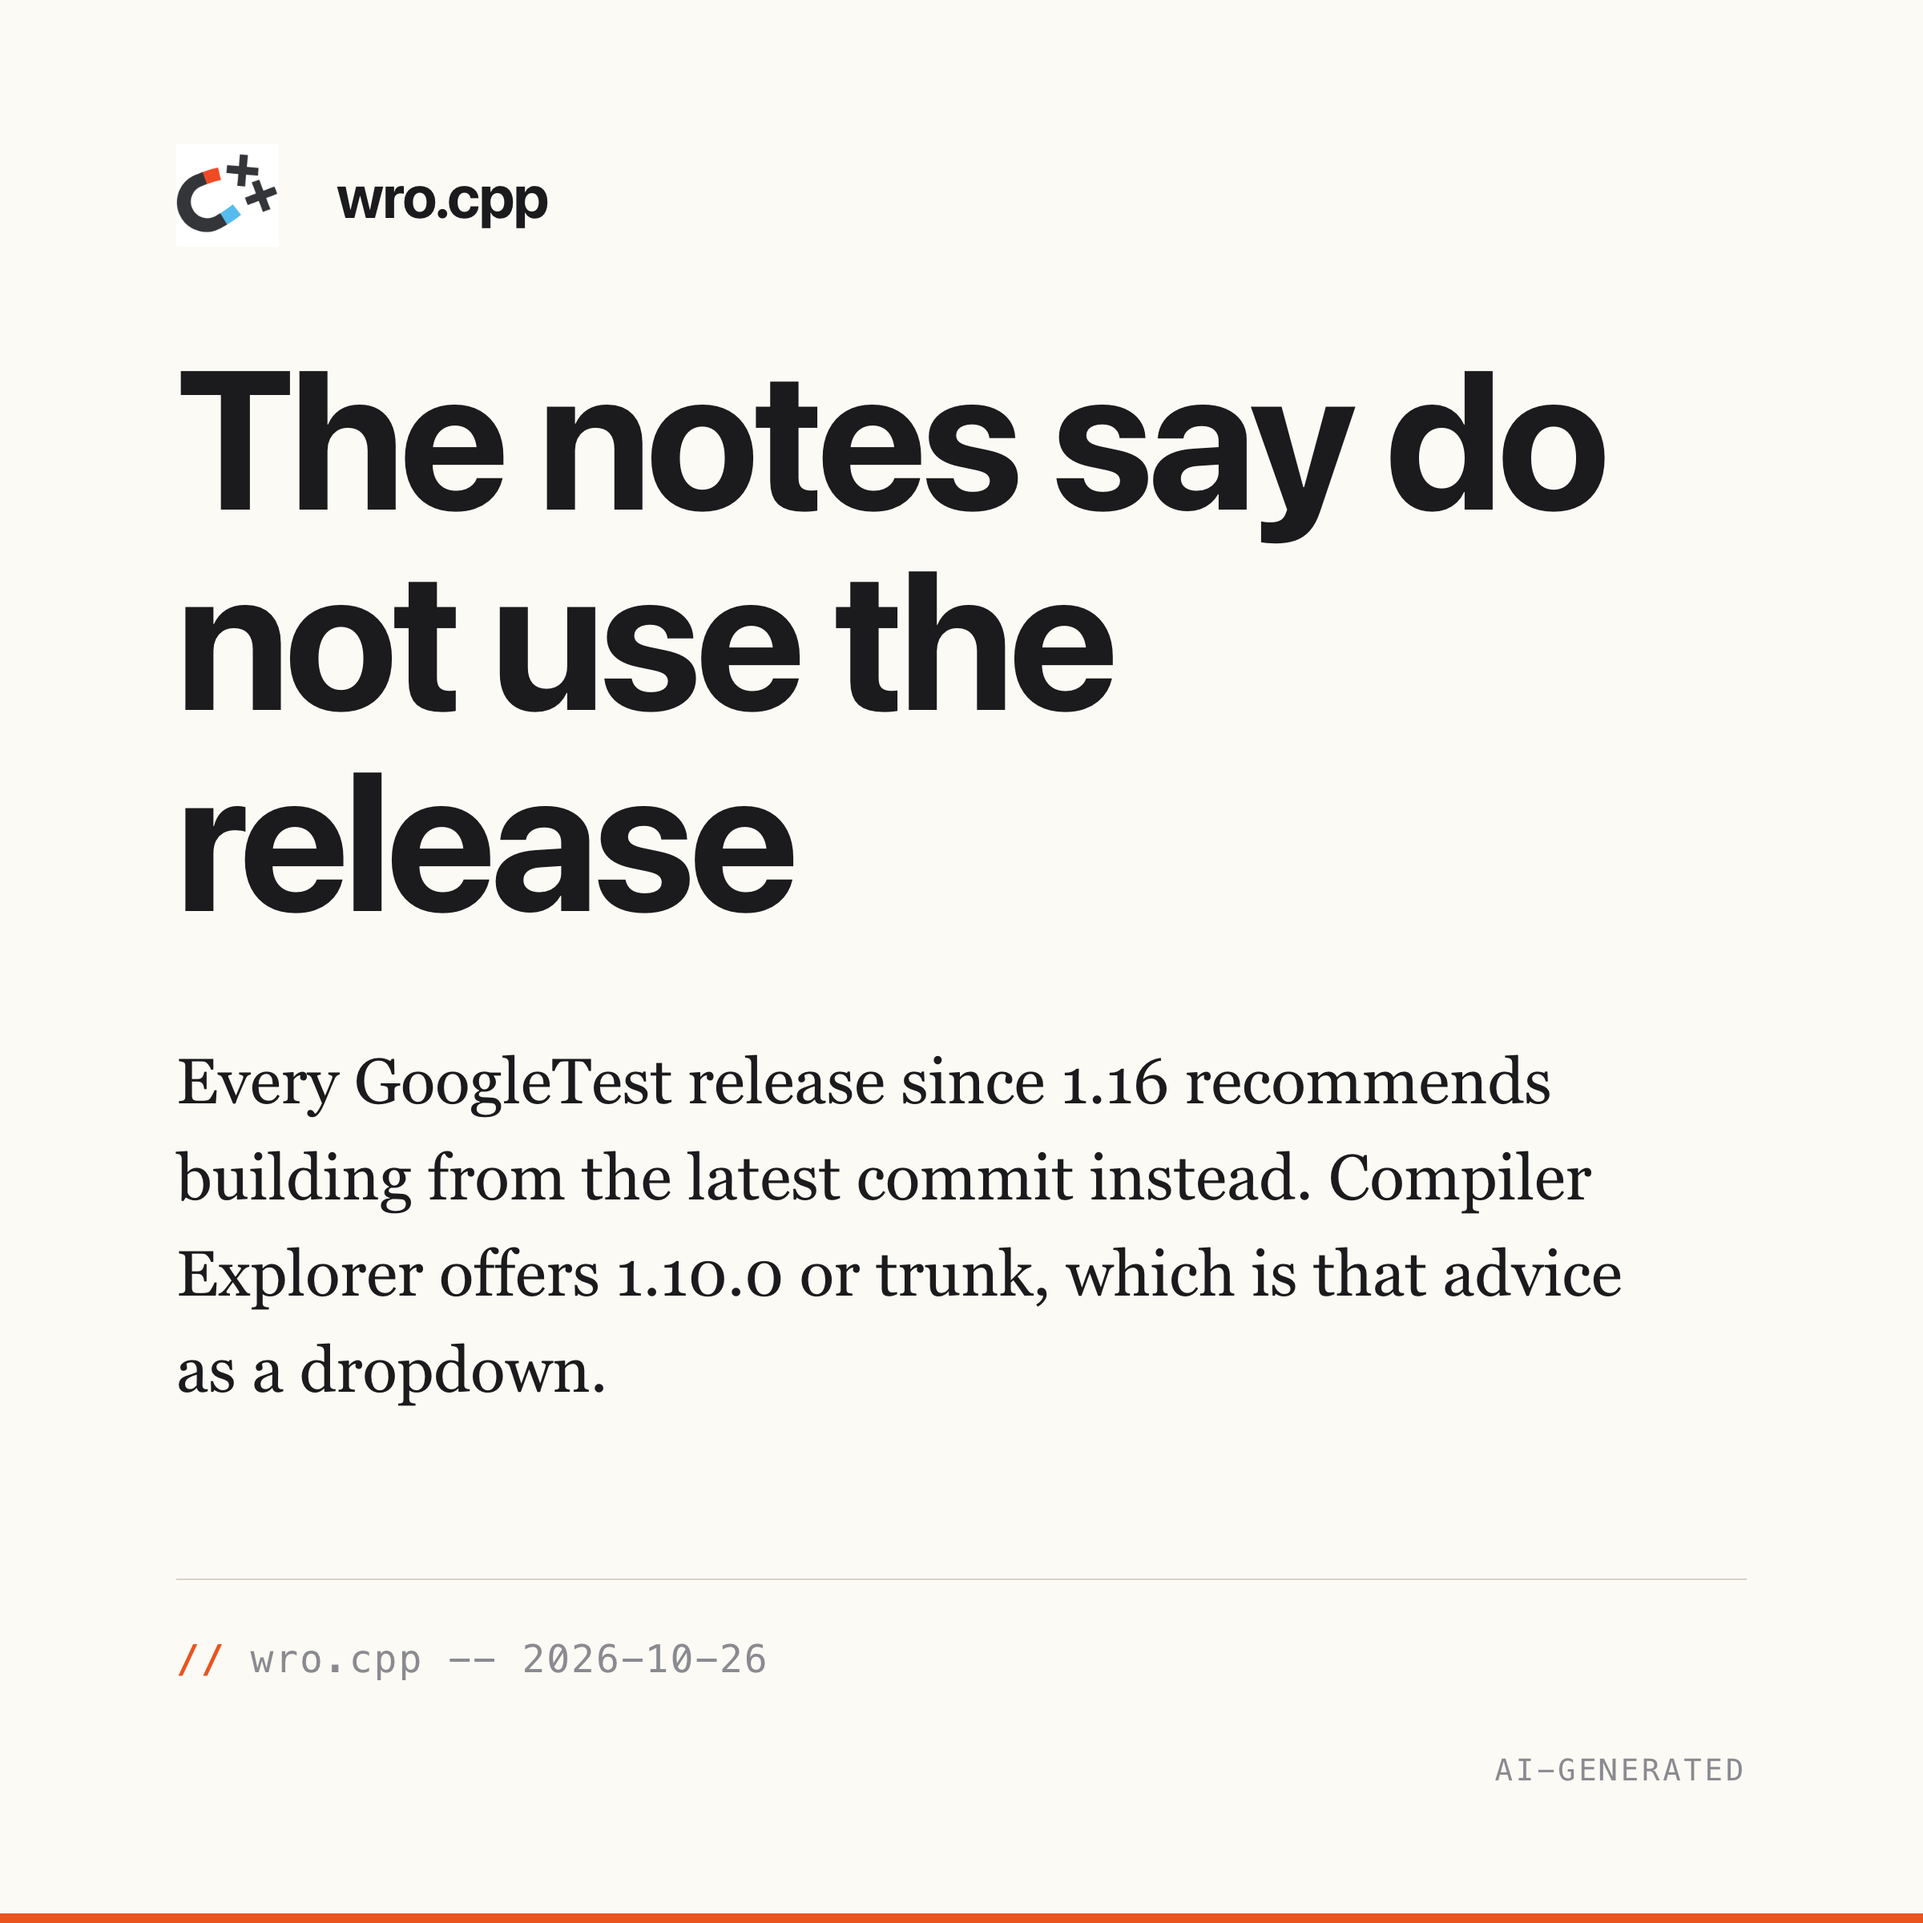
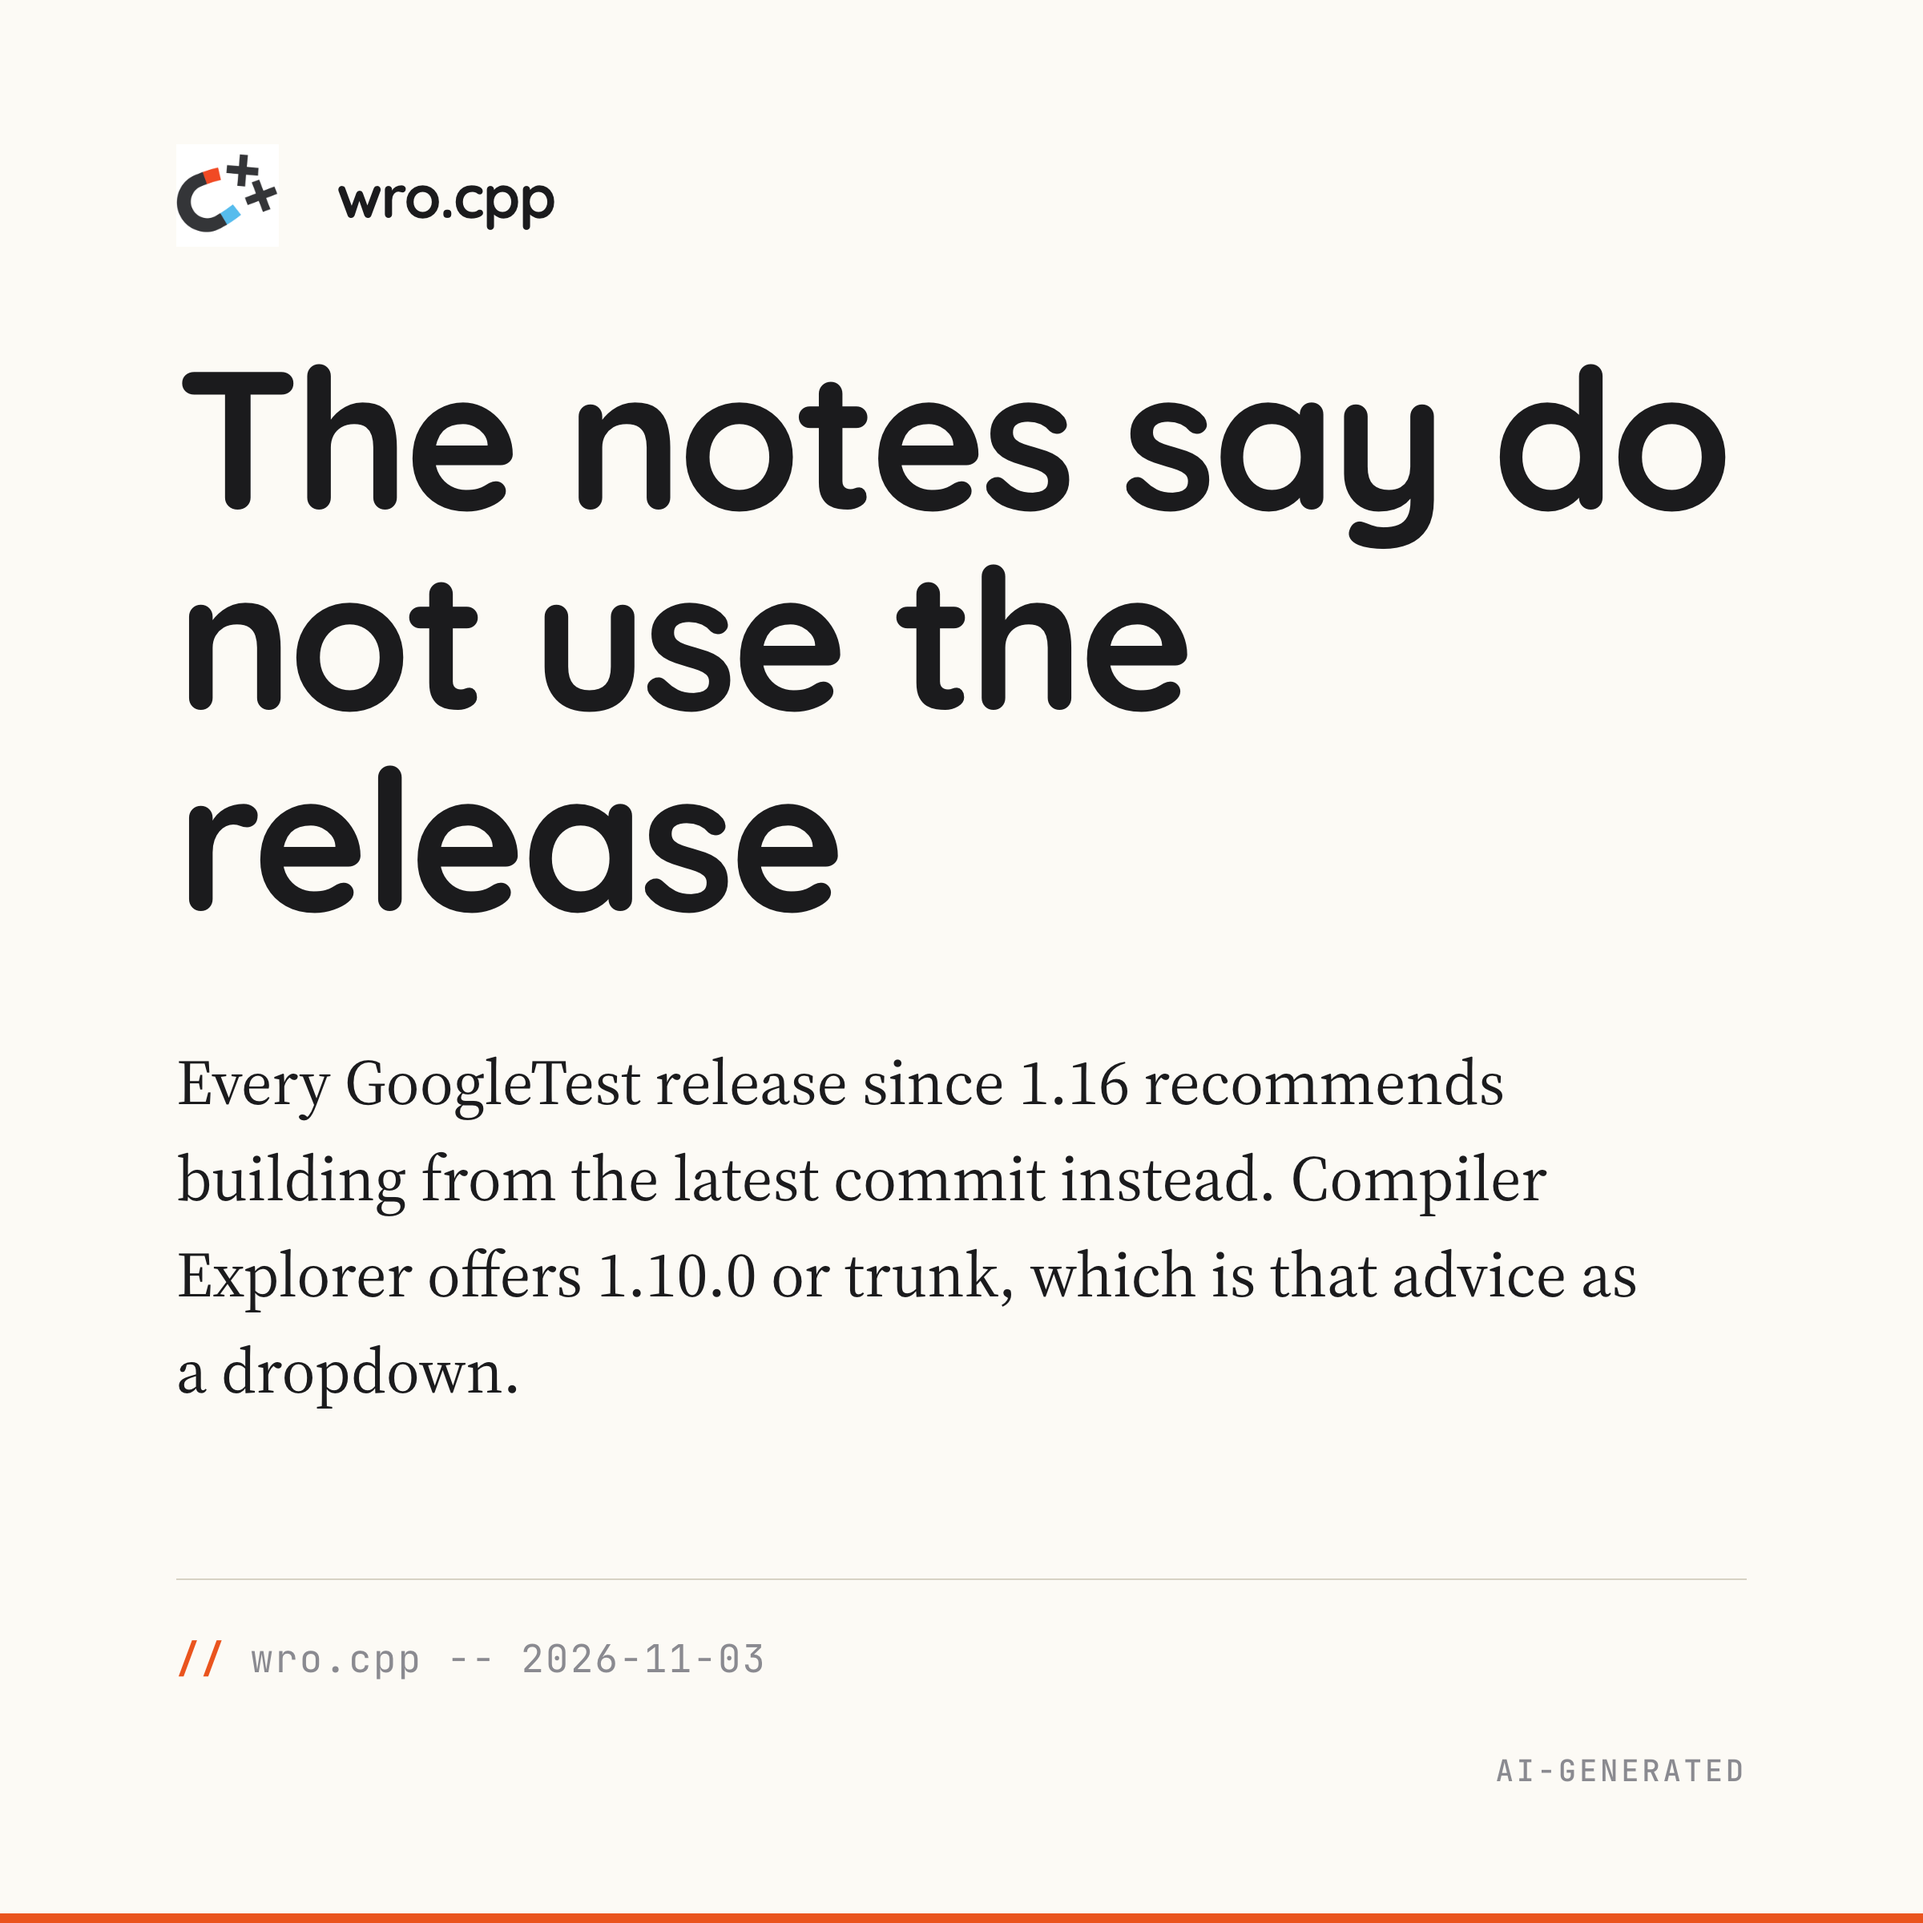
feat(post): move the GoogleTest short to the second slot of 3 November
The spec author post takes the morning slot of 26 October. The short keeps its
cards, re-dated, and becomes a planned second post at 16:00 UTC.

diff --git a/social/facebook/googletest-live-at-head/index.html b/social/facebook/googletest-live-at-head/index.html
@@ -23,6 +23,6 @@
   </defs>
 </svg>
 
-<section class="card card-insight dark"><div class="grid-bg"></div><div class="glow"></div><div class="insight-content"><h1>The notes say do not use the release</h1><p>Every GoogleTest release since 1.16 recommends building from the latest commit instead. Compiler Explorer offers 1.10.0 or trunk, which is that advice as a dropdown.</p><div class="insight-citation">wro.cpp -- 2026-10-26</div></div><div class="logo-watermark top-left"><svg viewBox="0 0 512 512" aria-hidden="true"><use href="#scudo-logo"/></svg><span class="logo-wordmark">ScudoAI</span></div><div class="ai-badge">AI-generated</div></section>
+<section class="card card-insight dark"><div class="grid-bg"></div><div class="glow"></div><div class="insight-content"><h1>The notes say do not use the release</h1><p>Every GoogleTest release since 1.16 recommends building from the latest commit instead. Compiler Explorer offers 1.10.0 or trunk, which is that advice as a dropdown.</p><div class="insight-citation">wro.cpp -- 2026-11-03</div></div><div class="logo-watermark top-left"><svg viewBox="0 0 512 512" aria-hidden="true"><use href="#scudo-logo"/></svg><span class="logo-wordmark">ScudoAI</span></div><div class="ai-badge">AI-generated</div></section>
 </body>
 </html>

diff --git a/social/linkedin/googletest-live-at-head/index.html b/social/linkedin/googletest-live-at-head/index.html
@@ -23,6 +23,6 @@
   </defs>
 </svg>
 
-<section class="card card-insight dark"><div class="grid-bg"></div><div class="glow"></div><div class="insight-content"><h1>The notes say do not use the release</h1><p>Every GoogleTest release since 1.16 recommends building from the latest commit instead. Compiler Explorer offers 1.10.0 or trunk, which is that advice as a dropdown.</p><div class="insight-citation">wro.cpp -- 2026-10-26</div></div><div class="logo-watermark top-left"><svg viewBox="0 0 512 512" aria-hidden="true"><use href="#scudo-logo"/></svg><span class="logo-wordmark">ScudoAI</span></div><div class="ai-badge">AI-generated</div></section>
+<section class="card card-insight dark"><div class="grid-bg"></div><div class="glow"></div><div class="insight-content"><h1>The notes say do not use the release</h1><p>Every GoogleTest release since 1.16 recommends building from the latest commit instead. Compiler Explorer offers 1.10.0 or trunk, which is that advice as a dropdown.</p><div class="insight-citation">wro.cpp -- 2026-11-03</div></div><div class="logo-watermark top-left"><svg viewBox="0 0 512 512" aria-hidden="true"><use href="#scudo-logo"/></svg><span class="logo-wordmark">ScudoAI</span></div><div class="ai-badge">AI-generated</div></section>
 </body>
 </html>

diff --git a/scripts/schedule_doubles.py b/scripts/schedule_doubles.py
@@ -160,6 +160,10 @@ INTENTIONAL_DOUBLES: dict[str, dict] = {
     # spec post took the second slot, to the first free second slot.
     "2026-11-01": {"slug": "rust-swift-cpp-interop-toolchains", "hour": 16,
                    "why": "Rust and Swift interop news alongside the evergreen post, moved from 22 October"},
+    # A GoogleTest news short. It moved from the first slot of 26 October, where the
+    # post on the spec author's two corrections took the morning, to the first free second slot.
+    "2026-11-03": {"slug": "googletest-live-at-head", "hour": 16,
+                   "why": "GoogleTest release news alongside the first tidy-agent episode, moved from 26 October"},
 }
 
 

diff --git a/social/linkedin/googletest-live-at-head/caption.md b/social/linkedin/googletest-live-at-head/caption.md
@@ -26,5 +26,5 @@ Do you pin a release or a commit for your test framework?
 A wro.cpp social card reading "The notes say do not use the release", about GoogleTest recommending users build from trunk.
 
 ## Suggested post time
-Monday 2026-10-26, 10:00 CET
-Reason: Weekend mid morning for a tooling and dependency management read.
+Tuesday 2026-11-03, 16:00 UTC
+Reason: the afternoon slot, after the morning slot of the first tidy-agent day, moved here from 26 October for the spec author post.

diff --git a/social/facebook/googletest-live-at-head/caption.md b/social/facebook/googletest-live-at-head/caption.md
@@ -20,5 +20,5 @@ https://wrocpp.github.io/posts/googletest-live-at-head/
 A wro.cpp social card reading "The notes say do not use the release", about GoogleTest recommending users build from trunk.
 
 ## Suggested post time
-Monday 2026-10-26, 10:00 CET
-Reason: Weekend mid morning for a tooling and dependency management read.
+Tuesday 2026-11-03, 16:00 UTC
+Reason: the afternoon slot, after the morning slot of the first tidy-agent day, moved here from 26 October for the spec author post.

diff --git a/social/facebook/googletest-live-at-head/content.md b/social/facebook/googletest-live-at-head/content.md
@@ -4,7 +4,7 @@ template: social/linkedin-post
 
 ::::post{type=insight theme=dark logo=top-left}
 
-:::insight{citation="wro.cpp -- 2026-10-26"}
+:::insight{citation="wro.cpp -- 2026-11-03"}
 # The notes say do not use the release
 Every GoogleTest release since 1.16 recommends building from the latest commit instead. Compiler Explorer offers 1.10.0 or trunk, which is that advice as a dropdown.
 :::

diff --git a/social/linkedin/googletest-live-at-head/content.md b/social/linkedin/googletest-live-at-head/content.md
@@ -4,7 +4,7 @@ template: social/linkedin-post
 
 ::::post{type=insight theme=dark logo=top-left}
 
-:::insight{citation="wro.cpp -- 2026-10-26"}
+:::insight{citation="wro.cpp -- 2026-11-03"}
 # The notes say do not use the release
 Every GoogleTest release since 1.16 recommends building from the latest commit instead. Compiler Explorer offers 1.10.0 or trunk, which is that advice as a dropdown.
 :::
